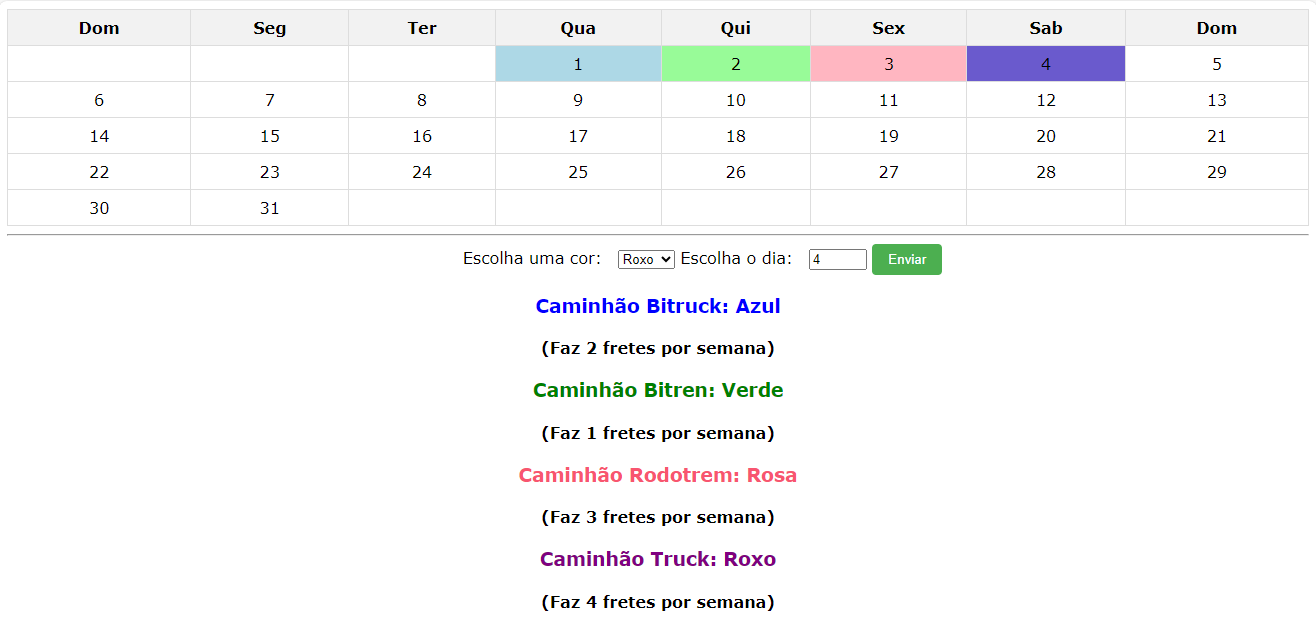
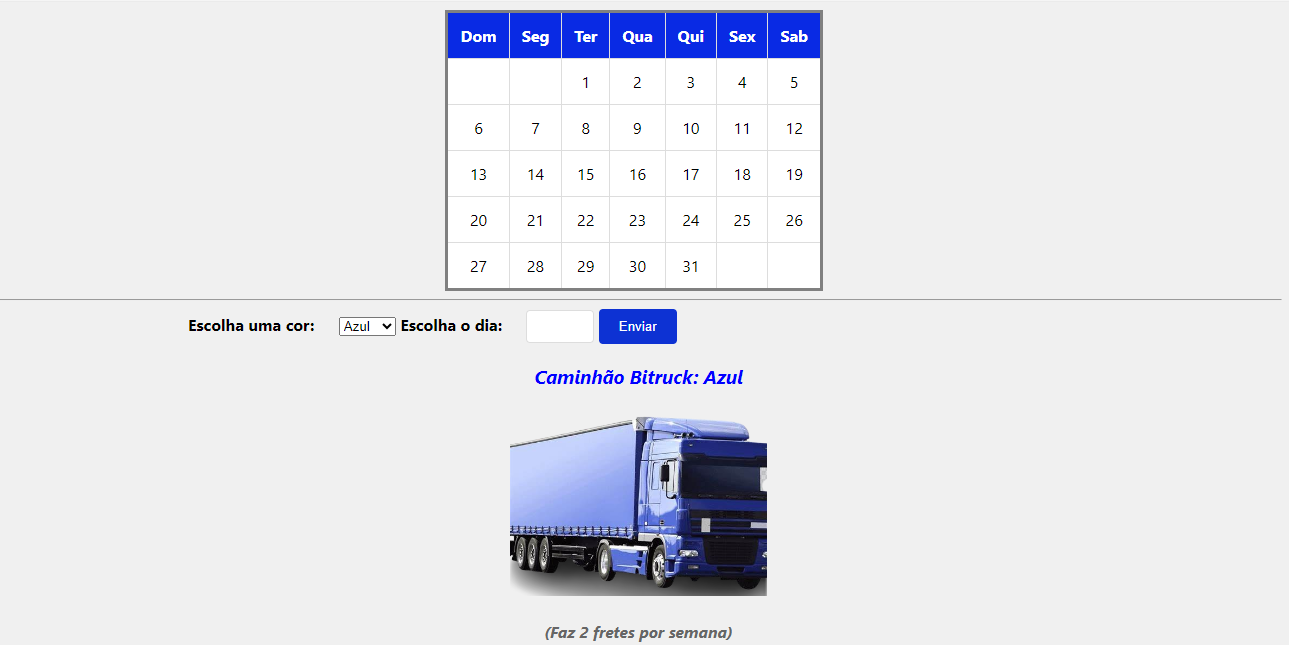
atualização das fotos

diff --git a/calendar.css b/calendar.css
@@ -1,42 +1,71 @@
-body{
-    font-family: Verdana, Geneva, Tahoma, sans-serif;
+body {
+    font-family: 'Segoe UI', Tahoma, Geneva, Verdana, sans-serif;
+    background-color: #f0f0f0;
 }
+
 .calendar {
     border-collapse: collapse;
-    width: 100%;
+    position: relative;
+    right: -35%;
 }
+
 .calendar th, .calendar td {
     border: 1px solid #dddddd;
     text-align: center;
-    padding: 8px;
+    padding: 12px;
 }
+
 .calendar th {
-    background-color: #f2f2f2;
+    background-color: #092ae4;
+    color: white;
 }
+
 .calendar td {
-    background-color: #ffffffa1;
+    background-color: #ffffff;
 }
+
 label {
-    margin-right: 10px;
+    margin-right: 20px;
+    font-weight: bold;
+    color: #000000;
 }
+
 input[type="number"] {
     width: 50px;
+    padding: 8px;
+    border: 1px solid #dddddd;
+    border-radius: 4px;
 }
+
 input[type="submit"] {
-    padding: 8px 16px;
-    background-color: #4CAF50;
+    padding: 10px 20px;
+    background-color: #0d32d3;
     color: white;
     border: none;
     border-radius: 4px;
     cursor: pointer;
+    transition: background-color 0.3s ease;
 }
-input[type="submit"]:hover {
-    background-color: #45a082;
 
+input[type="submit"]:hover {
+    background-color: #124f88;
 }
-.inf{
-    margin-left: 35%;
+
+.inf {
+    margin-left: auto;
+    margin-right: auto;
+    width: 70%;
 }
-.inf2{
+
+.inf2 {
     text-align: center;
+    margin-top: 20px;
+    font-style: italic;
+    color: #666666;
+}
+table,td,th{
+border-style: solid;
+padding: 33%;
+border-collapse: collapse;
+text-align: center;
 }

diff --git a/calendario.html b/calendario.html
@@ -90,13 +90,22 @@
     </div>
    <div class="inf2">
     <h3 style="color: blue;">Caminhão Bitruck: Azul</h3>
+    <img src="azul.png" alt="">
     <h4 >(Faz 2 fretes por semana)</h4>
     <h3 style="color: green;">Caminhão Bitren: Verde</h3>
+    <img src="verde.png" alt="">
     <h4>(Faz 1 fretes por semana)</h4>
     <h3 style="color: rgb(248, 85, 112);">Caminhão Rodotrem: Rosa</h3>
+    <img src="rosa.png" alt="">
     <h4>(Faz 3 fretes por semana)</h4>
     <h3 style="color: purple;">Caminhão Truck: Roxo</h3>
+    <img src="roxo.png" alt="">
     <h4>(Faz 4 fretes por semana)</h4>
   </div>
+  <style>
+    img{
+      width: 20%;
+    }
+  </style>
 </body>
 </html>
